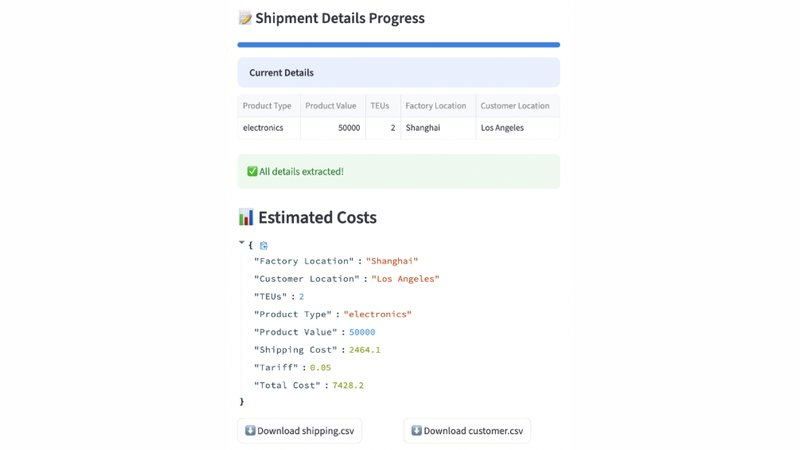
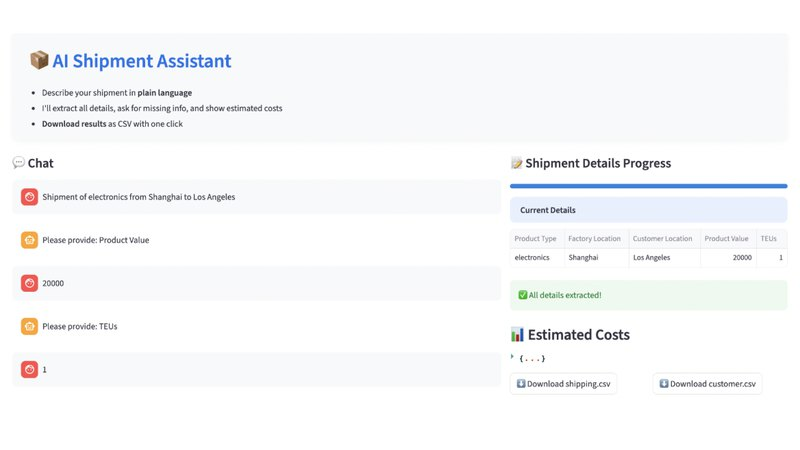
AI for Optimization: a wide hero from the team's report
The old hero was a portrait screenshot (435x565), so 16:9 cards on the
Projects grid and on searlab showed only its middle. The new one is the
report's full-app screenshot (chat asking for missing details, beside the
details it filled in), trimmed and padded to 16:9 on the app's own white;
thumb regenerated at 800x450. Same filenames, so searlab picks it up.

diff --git a/public/projects/ai-optimization-programming/index.html b/public/projects/ai-optimization-programming/index.html
@@ -27,7 +27,7 @@
   <h1>AI for Optimization Programming: Plain English In, Decisions Out</h1>
   <p class="dek">Using language models so that a manager can describe a shipping or supply-chain problem in plain English and get an answer, with an optimization model doing the deciding.</p>
   <ul class="chips"><li class="status">Active</li><li>2025–present</li><li>Generative AI</li><li>Optimization</li><li>Supply chains</li><li>Logistics</li></ul>
-  <figure class="media"><img src="img/hero.png" alt="The shipment assistant&#x27;s results panel. A &#x27;Current Details&#x27; table lists product type electronics, product value 50000, 2 TEUs, factory location Shanghai and customer location Los Angeles, with a green &#x27;All details extracted!&#x27; bar. Below, &#x27;Estimated Costs&#x27; shows a JSON breakdown: shipping cost 2464.1 per container, tariff 0.05 and total cost 7428.2, with buttons to download shipping and customer CSV files." loading="eager"><figcaption>The 2025 shipment assistant after reading a plain-English request: the fields it extracted, and the costs it looked up.<span class="credit">Screenshot from the student team&#x27;s 2025 report, SEAR Lab</span></figcaption></figure>
+  <figure class="media"><img src="img/hero.png" alt="The AI Shipment Assistant app. On the left, a chat: the user writes &#x27;Shipment of electronics from Shanghai to Los Angeles&#x27;, the assistant asks &#x27;Please provide: Product Value&#x27;, the user answers 20000, it asks for TEUs, and the user answers 1. On the right, a Current Details table fills in electronics, Shanghai, Los Angeles, 20000 and 1 TEU, with a green &#x27;All details extracted!&#x27; bar and buttons to download the estimated costs as CSV." loading="eager"><figcaption>The 2025 shipment assistant mid-conversation: it reads a plain-English request, asks for what is missing, and fills in the inputs the cost model needs.<span class="credit">Screenshot from the student team&#x27;s 2025 report, SEAR Lab</span></figcaption></figure>
   <section><h2>In plain English</h2><p>Optimization models make good logistics decisions, but writing one takes training most managers do not have. This project asks whether a language model can sit between the two: take a plain-English request, turn it into the inputs a model needs, and explain the answer back. In 2025 SEAR Lab students first built a warehouse-allocation app on the Gurobi solver, then a chat-based shipment assistant. A user types something like &quot;ship two containers of electronics from Shanghai to Los Angeles&quot;; the assistant extracts the product, value, container count and ports, asks for anything missing, and returns freight, tariff and total cost from tables of port-to-port rates and tariff schedules.</p><p>That assistant looks costs up; it does not optimize. The current phase rebuilds it around a real optimization model with Gurobi as the engine, so that the language model handles the conversation and the solver makes the decision.</p></section>
   <section><h2>Main points</h2><ul class="points"><li>Turns free text into structured model inputs, and asks follow-up questions when something is missing.</li><li>2025 prototypes: a Gurobi warehouse-allocation app and a shipment-cost assistant, both built in Streamlit.</li><li>Freight rates across major container ports from a commercial rate service; tariffs by product category and country pair.</li><li>Next: replace the cost lookup with an optimization model, so the answer is a decision rather than a quote.</li></ul></section>
   
